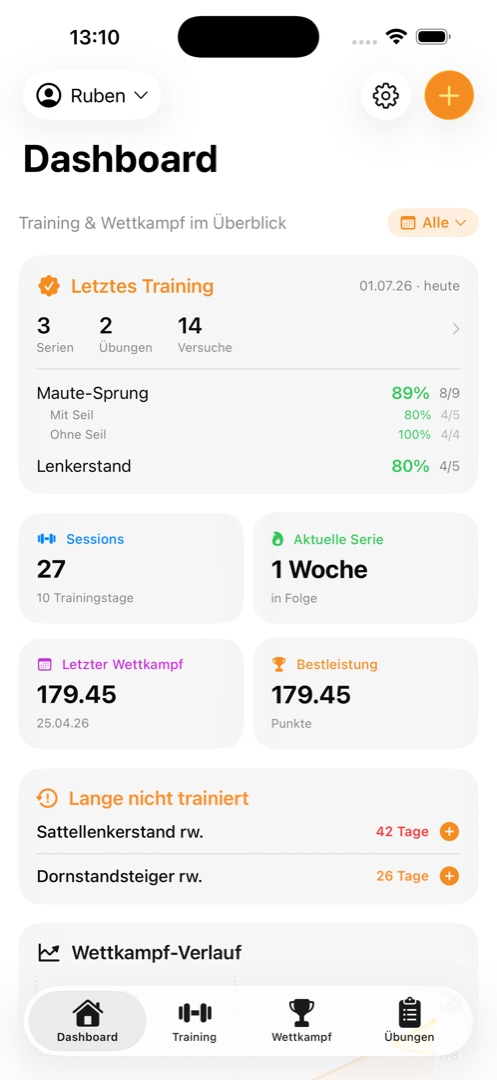
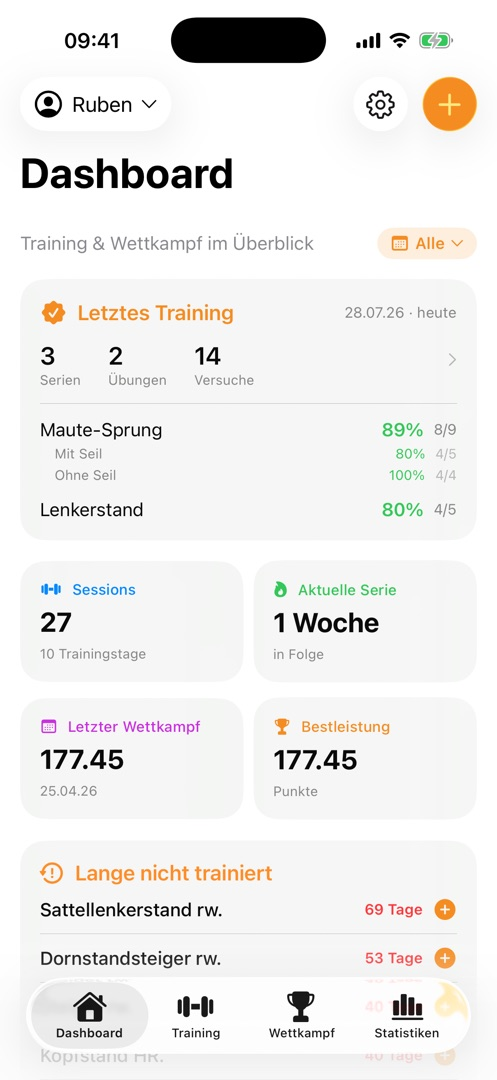
Website: neue Vorschaubilder + Funktionen auf heutigem Stand
Die fünf Vorschau-Screenshots waren vom 1./5. Juli und zeigten eine App, die es
so nicht mehr gibt (der vierte Tab hieß noch „Übungen"). Neu aufgenommen aus der
aktuellen Version (Simulator, Hellmodus, 09:41-Statusleiste): Dashboard,
Training, Abzüge erfassen (Vollbild-Scorer), Wettkämpfe, Statistiken.
`trend.jpg` und `uebungen.jpg` sind damit hinfällig und gelöscht.

Texte nachgezogen: „Versuche zählen" statt „Serien zählen" (Terminologie),
Statistiken-Kachel beschreibt jetzt das Statistiken-Zentrum, Export nennt die
drei Formate und die Abzüge außerhalb der Übungen. Zwei Funktionen neu, die es
längst gibt, aber nirgends stand: Trainingsdurchlauf werten und Offline-Betrieb.
FAQ um „Funktioniert die App ohne Internet?" ergänzt.

Geprüft im Browser: alle fünf Bilder laden in 497×1080, /funktionen zeigt die
neuen Karten, keine Konsolenfehler.

diff --git a/src/Landing.jsx b/src/Landing.jsx
@@ -2,7 +2,7 @@ import React, { useState, useEffect } from 'react';
 import {
   Trophy, ClipboardList, ScanLine, BarChart3, Users, ListChecks,
   Check, ChevronRight, X, Menu, ShieldCheck, Globe, BookOpen,
-  User, UserCog, Zap,
+  User, UserCog, Zap, Timer, WifiOff,
 } from 'lucide-react';
 
 // Apple-Logo (lucide führt keine Marken-Icons mehr) — für die „Im App Store"-Buttons.
@@ -105,13 +105,15 @@ function Section({ children, className }) {
 
 // ---- Start ---------------------------------------------------------------
 const FEATURES = [
-  { icon: ClipboardList, title: 'Training protokollieren', text: 'Übungen mit Geklappt/Nicht erfassen, Serien zählen, mit/ohne Seil — schnell direkt aus dem Trainingsplan.' },
+  { icon: ClipboardList, title: 'Training protokollieren', text: 'Übungen mit Geklappt/Nicht erfassen, Versuche zählen, mit/ohne Seil — schnell direkt aus dem Trainingsplan.' },
   { icon: ScanLine, title: 'Wertungsbögen scannen', text: 'Wettkampf-Wertungsbogen abfotografieren — die KI liest Übungen, Abzüge und Endergebnis automatisch aus.' },
   { icon: Zap, title: 'Wertungsbögen manuell erfassen', text: 'Übung für Übung durchtippen: große Flächen für die Fehlerzeichen, beide Kampfgerichte, Schwierigkeit — schnell und ohne Papier.' },
-  { icon: BarChart3, title: 'Statistik & Trends', text: 'Erfolgsquoten pro Übung, Verlauf über Wochen/Monate, Ø-Punktabzug pro Wettkampf und Bestleistungen.' },
+  { icon: BarChart3, title: 'Statistiken', text: 'Alles an einem Ort: Ø Ergebnis und Bestleistung, Verlauf über die Saison, Ø Abzug je Programm und je Übung — Übungen nach Abzug sortiert, damit die Baustellen oben stehen.' },
   { icon: ListChecks, title: 'Trainingspläne', text: 'Stehende Pläne mit verknüpften Übungen — direkt protokollieren, mit Verlaufs-Protokoll je Plan.' },
   { icon: Users, title: 'Mehrere Trainer & Sportler', text: 'Sportler per Code einladen, Co-Trainer verwalten — alle sehen dieselben Daten in Echtzeit.' },
-  { icon: Trophy, title: 'Wettkämpfe & Export', text: 'Wettkämpfe erfassen, taktische Aufwertungen, und Excel-Exporte erstellen.' },
+  { icon: Trophy, title: 'Wettkämpfe & Export', text: 'Wertungsbögen erfassen, taktische Aufwertungen, Abzüge auch vor der ersten und nach der letzten Übung. Ausgabe als offizielle Wettkampfstatistik, als einfache Tabelle oder CSV.' },
+  { icon: Timer, title: 'Trainingsdurchlauf werten', text: 'Ein ganzes Programm im Training wie im Wettkampf bewerten — mit Abzügen und Endergebnis. Fließt getrennt in die Statistiken ein, so lässt sich Training gegen Wettkampf halten.' },
+  { icon: WifiOff, title: 'Auch ohne Netz', text: 'In der Halle ist das Netz oft weg: Erfassen, Wettkämpfe und Programme gehen offline weiter und werden synchronisiert, sobald wieder Verbindung da ist.' },
   { icon: BookOpen, title: 'Komplettes Reglement', text: 'Alle offiziellen Kunstrad-Übungen mit Übungsnummer und Punkten sind hinterlegt — Übung suchen, antippen, fertig.' },
 ];
 
@@ -125,12 +127,14 @@ const REGLEMENT_SAMPLE = [
   { c: '1217b', n: 'Dornstandsteiger rw.', p: '6,0' },
 ];
 
+// Aufnahmen aus der aktuellen Version (Hellmodus, Simulator). Wenn sich die App
+// sichtbar ändert, hier mit erneuern — alte Bilder versprechen sonst Falsches.
 const PREVIEWS = [
   { img: 'dashboard', label: 'Dashboard' },
-  { img: 'trend', label: 'Übungs-Trend' },
-  { img: 'erfassen', label: 'Wertungsbogen erfassen' },
+  { img: 'training', label: 'Training' },
+  { img: 'erfassen', label: 'Abzüge erfassen' },
   { img: 'wettkampf', label: 'Wettkämpfe' },
-  { img: 'uebungen', label: 'Übungen' },
+  { img: 'statistiken', label: 'Statistiken' },
 ];
 
 function Home() {
@@ -358,6 +362,7 @@ const FAQS = [
   { q: 'Wie lade ich Sportler oder Co-Trainer ein?', a: 'In der App über einen Einlade-Code: Du erstellst pro Sportler bzw. Trainer einen Code, der einmalig eingelöst wird.' },
   { q: 'Können mehrere Trainer denselben Sportler betreuen?', a: 'Ja. Ein Sportler kann mehrere (Co-)Trainer freischalten — alle sehen dieselben Daten in Echtzeit. Jeder Sportler legt dabei pro Trainer fest, ob dieser nur eintragen oder auch bearbeiten und löschen darf.' },
   { q: 'Gibt es eine Team-/Vereinsfunktion?', a: 'Ja. Sportler und Trainer lassen sich in Teams bündeln; neue Mitglieder treten per Beitritts-Code bei. So behält ein Verein alle Aktiven an einem Ort im Blick.' },
+  { q: 'Funktioniert die App ohne Internet?', a: 'Zum größten Teil ja. Training erfassen, Wettkämpfe und Trainingsdurchläufe werten sowie Programme bearbeiten gehen offline; die Änderungen werden übertragen, sobald wieder Verbindung besteht. Nur der Foto-Scan und die Anmeldung brauchen Netz.' },
   { q: 'Sind meine Daten sicher?', a: 'Die Daten liegen verschlüsselt in der Cloud. Nur du und die von dir freigegebenen Trainer haben Zugriff.' },
   { q: 'Funktioniert der Wertungsbogen-Scan zuverlässig?', a: 'Die Erkennung prüft sich selbst gegen die Prüfsumme des Bogens und liest bei Bedarf nach, um Abzüge und Endergebnis korrekt zu übernehmen.' },
 ];
